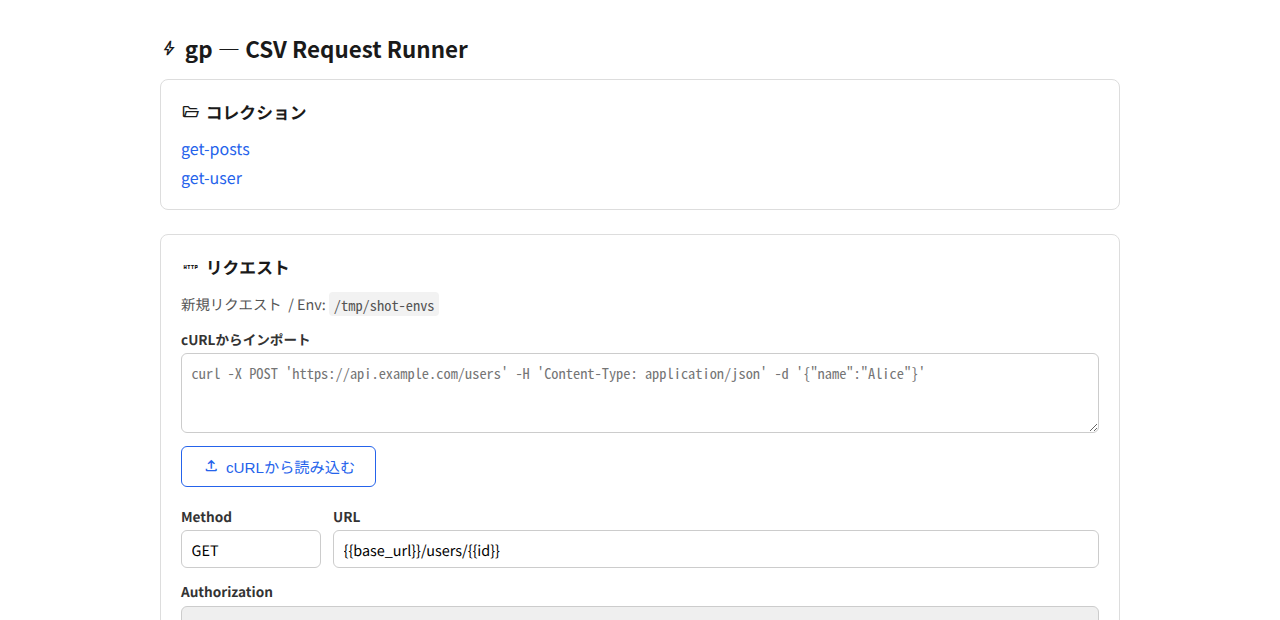
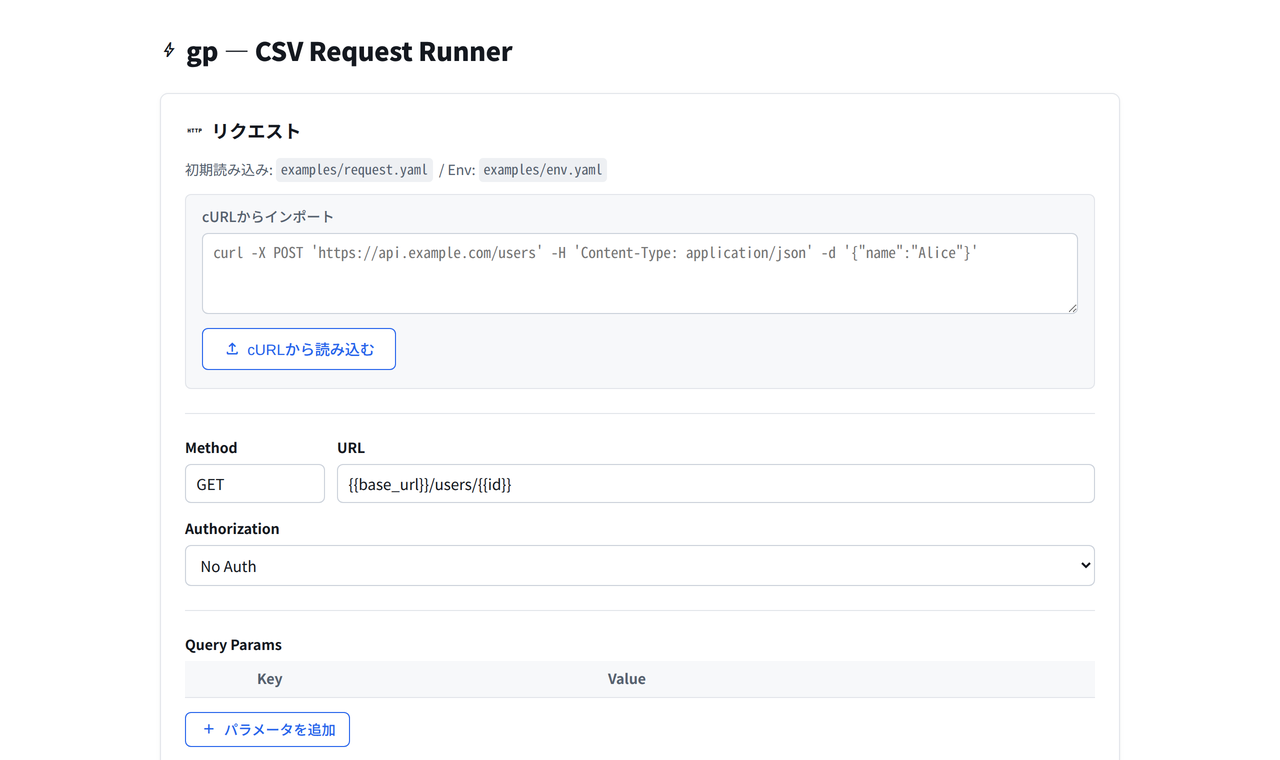
READMEのスクリーンショットを最新UIで撮り直し、3分ガイドの抜けを修正する
docs/images/*.pngを、フロントエンド再構築とCRAP原則によるUI改善後の
gp serveから撮り直した(headless Chrome + Puppeteerで実機を操作して撮影)。
あわせて、「3分でわかるgp serve」手順2が実際には動かなかった点を修正:
examples/request.yamlの{{id}}はCSVなしでは解決できず、手順1の直後に
単発送信すると常にundefined variable "id"で失敗していたため、URL欄を
具体的な値に書き換える一文を追加。新しいスクリーンショットの内容に合わせて
alt文言も2箇所更新した。

CLI/コレクション/api/send/api/runの各例は実行して現行動作と一致することを
確認済み。

diff --git a/README.md b/README.md
@@ -75,11 +75,13 @@ gp serve examples/request.yaml --env examples/env.yaml --port 8080
 `http://localhost:8080` を開くと、Method・URL・Headersなどを入力する画面が表示される。難しい設定は不要で、
 上から順に埋めていくだけでよい。
 
-![リクエストビルダーの画面。Method/URL/Authorization/Query Params/Headers/Body/Test Scriptを入力するフォームと、環境変数・CSV実行のカードが並ぶ](docs/images/request-builder.png)
+![gp serveのリクエストビルダー画面。cURLインポート欄、Method/URL、Authorizationなどを入力するフォームの先頭部分](docs/images/request-builder.png)
 
 ### 2. 「単発送信」でまず1回試す
 
-右下の「単発送信」ボタンを押すと、その場でリクエストが1回実行される。レスポンスはステータス・ヘッダー・
+`examples/request.yaml`のURLは`{{base_url}}/users/{{id}}`で、`id`はCSVの各行が渡す想定の変数
+なので、まだ環境変数には入っていない。CSVを使わずに1回だけ試したい場合は、URL欄の`{{id}}`を
+`1`のような具体的な値に書き換えてから「単発送信」ボタンを押す。レスポンスはステータス・ヘッダー・
 ボディまでその場で確認でき、JSONならきれいに整形&色付けして表示される(`Test Script`欄に検証コードを
 書いておけば、ここに合否も一緒に出る)。
 
@@ -93,7 +95,7 @@ gp serve examples/request.yaml --env examples/env.yaml --port 8080
 先頭数行がその場でプレビューされる。文字化けしていないか、想定した列がそろっているかをここで確認できる。
 テンプレート変数がCSV・環境変数のどちらにもカバーされていない場合は警告も出る。
 
-![CSVで一括実行カード。ドラッグ&ドロップ領域、反復回数・リクエスト間の遅延・失敗時に停止の入力欄](docs/images/csv-upload.png)
+![CSVで一括実行カード。CSVファイルをドロップした直後のプレビュー(列名・行数)と、反復回数・リクエスト間の遅延・失敗時に停止の入力欄](docs/images/csv-upload.png)
 
 ### 4. 「CSVで実行」して進捗を見ながら待つ
 
